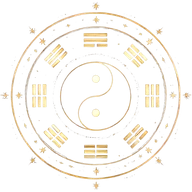
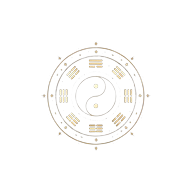
fix(ui): 优势区改为正面表述 · 修复一日一卦卡片图标（此前一直走 ☯ 字符兜底，故显高）
- trust 区块：kicker 改 OUR EDGE，标题/导语/六条全部正面化，删掉「免费的 AI 也能算，为什么要付钱」与对 AI 的贬低表述
- 一日一卦卡片：CardMedallion 的 roken || !Icon 判断让该卡永远走字符兜底，现改为仅在加载失败时兜底
- gua-taiji.webp 重新按其它四枚的比例生成（内容占画布 57%、居中），视觉重量一致

Changed region(s): [[0.0, 0.0, 1.0, 1.0], [0.6562, 0.0938, 0.7188, 0.125], [0.5625, 0.5312, 0.5938, 0.5938]]

diff --git a/web/src/i18n/extra.js b/web/src/i18n/extra.js
@@ -448,19 +448,19 @@ const V4 = {
       formNote: '出生信息仅用于本次分析，不保存。',
     },
     trust: {
-      kicker: 'WHY PAY',
-      title: '免费的 AI 也能算，为什么要付钱',
-      lead: '因为它能"说"，但不能"算准"，更给不出可核对的结构。',
+      kicker: 'OUR EDGE',
+      title: '看得见的算法，说得清的依据',
+      lead: '古法排盘、工程化计算、结构化输出——三件事都做到位，才对得起你的生日。',
       r1t: '排盘可复核',
       r1d: '干支、节气、安星由历法引擎逐项计算，你可以拿去和任何排盘软件对，数字必须一致。',
       r2t: '结论带依据',
       r2d: '每条判断后面跟着依据：日主是什么、生扶几分、哪一行几股——不满意可以直接反驳。',
-      r3t: '双人合盘它做不了',
-      r3d: 'ChatGPT 一轮只能算一个人；合盘要两张盘交叉比对，还得算生肖合冲与结构互补。',
+      r3t: '双人合盘也算得清',
+      r3d: '两张盘交叉比对：五行互补、日主生克、生肖合冲、结构强弱，一次算到底。',
       r4t: '固定结构不漏项',
       r4d: '大运、流年、健康、开运五项固定输出，不会因为你没问就跳过。',
-      r5t: '不用研究提示词',
-      r5d: '填生日就行。跟 AI 聊半小时，往往还没问到关键处。',
+      r5t: '填个生日就够',
+      r5d: '不必研究"怎么问才准"，也不用反复向谁描述自己。',
       r6t: '解锁一次长期可看',
       r6d: '凭证存在本机，随时回来重看，不必每次重新描述自己。',
     },
@@ -516,14 +516,14 @@ const V4 = {
       formNote: '出生資訊僅用於本次分析，不儲存。',
     },
     trust: {
-      kicker: 'WHY PAY',
-      title: '免費的 AI 也能算，為什麼要付錢',
-      lead: '因為它能「說」，但不能「算準」，更給不出可核對的結構。',
+      kicker: 'OUR EDGE',
+      title: '看得見的演算法，說得清的依據',
+      lead: '古法排盤、工程化計算、結構化輸出——三件事都做到位，才對得起你的生日。',
       r1t: '排盤可複核', r1d: '干支、節氣、安星由曆法引擎逐項計算，你可以拿去和任何排盤軟體對，數字必須一致。',
       r2t: '結論帶依據', r2d: '每條判斷後面跟著依據：日主是什麼、生扶幾分、哪一行幾股——不滿意可以直接反駁。',
-      r3t: '雙人合盤它做不了', r3d: 'ChatGPT 一輪只能算一個人；合盤要兩張盤交叉比對，還得算生肖合沖與結構互補。',
+      r3t: '雙人合盤也算得清', r3d: '兩張盤交叉比對：五行互補、日主生剋、生肖合沖、結構強弱，一次算到底。',
       r4t: '固定結構不漏項', r4d: '大運、流年、健康、開運五項固定輸出，不會因為你沒問就跳過。',
-      r5t: '不用研究提示詞', r5d: '填生日就行。跟 AI 聊半小時，往往還沒問到關鍵處。',
+      r5t: '填個生日就夠', r5d: '不必研究「怎麼問才準」，也不用反覆向誰描述自己。',
       r6t: '解鎖一次長期可看', r6d: '憑證存在本機，隨時回來重看，不必每次重新描述自己。',
     },
     ladder: {
@@ -581,19 +581,19 @@ const V4 = {
       formNote: 'Birth data is used only for this analysis and never stored.',
     },
     trust: {
-      kicker: 'WHY PAY',
-      title: 'A free chatbot can do this too — so why pay?',
-      lead: 'Because it can talk, but it cannot compute a chart, and it will not show you its workings.',
+      kicker: 'OUR EDGE',
+      title: 'Visible computation, traceable reasoning',
+      lead: 'Classical rules, an engineered engine, structured output — all three, or it is not worth your birthday.',
       r1t: 'The chart is verifiable',
       r1d: 'Pillars, solar terms and star placements come from a calendrical engine — check the numbers against any professional software.',
       r2t: 'Every claim has a basis',
       r2d: 'Each judgement carries its reason: which Day Master, how many points of support, how many of each element. You can argue with it.',
-      r3t: 'It cannot do two-person charts',
-      r3d: 'A chatbot handles one person per conversation; compatibility needs two charts cross-compared, plus zodiac clashes and structural fit.',
+      r3t: 'Two-chart readings included',
+      r3d: 'Both charts cross-compared: element fit, Day Master relation, zodiac harmony and structural balance, in one pass.',
       r4t: 'Fixed structure, nothing skipped',
       r4d: 'Luck cycles, annual forecast, health and practical advice are always output — not only when you happen to ask.',
-      r5t: 'No prompt engineering',
-      r5d: 'Enter a birthday. Half an hour of chatting often ends before the real question.',
+      r5t: 'A birthday is enough',
+      r5d: 'No prompt engineering, no re-describing yourself to a chatbot.',
       r6t: 'Unlock once, keep it',
       r6d: 'Your access stays on this device — come back anytime without re-describing yourself.',
     },

diff --git a/web/src/pages/Home.jsx b/web/src/pages/Home.jsx
@@ -60,7 +60,7 @@ function CardMedallion({ k }) {
   const file = k === 'gua' ? 'gua-taiji' : `icon-${k}`;
   return (
     <span className="medallion-icon">
-      {broken || !Icon
+      {broken
         ? <span className="medallion-fallback">☯</span>
         : (
           <img
